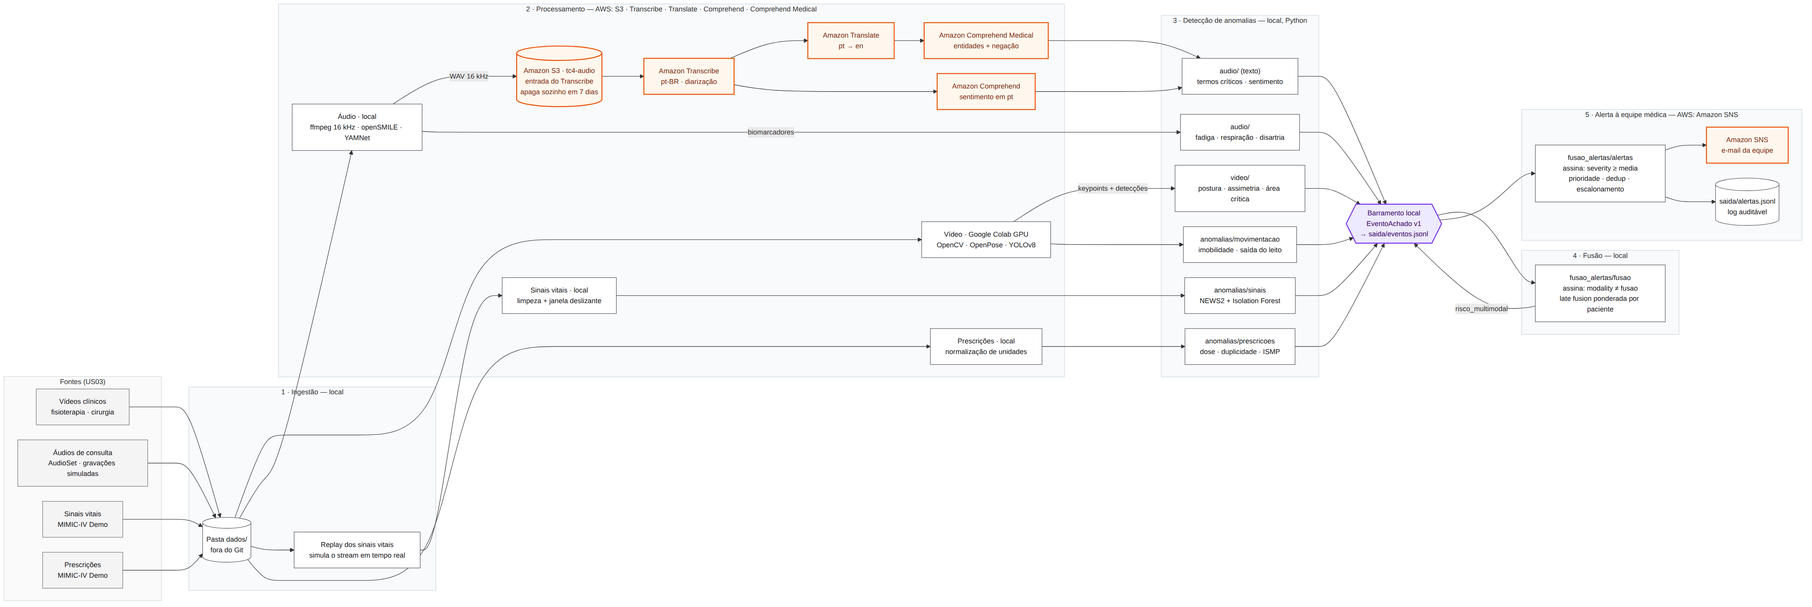
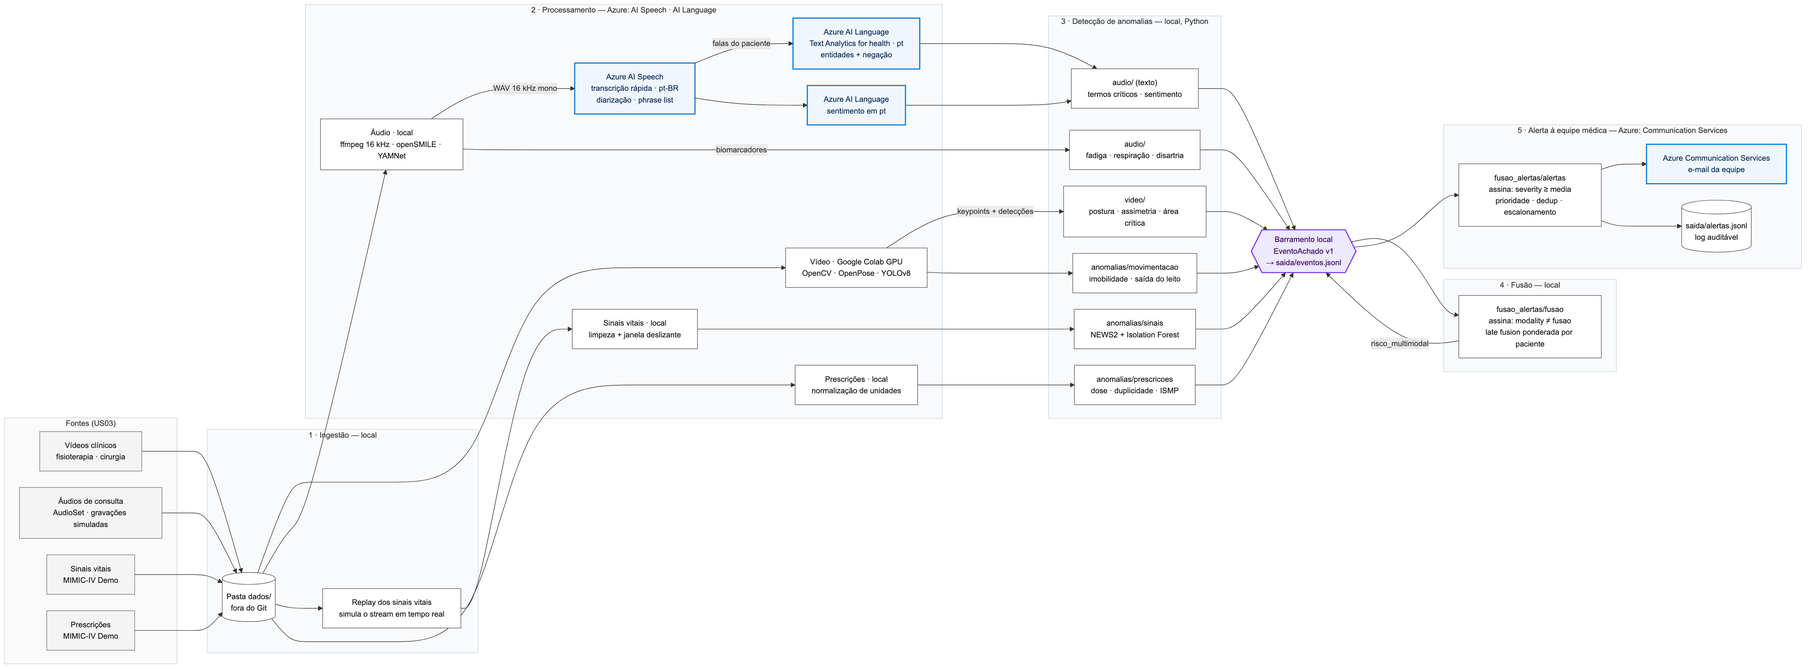
Remove minimum IAM policy JSON file as it is no longer needed for the project.

diff --git a/docs/arquitetura/README.md b/docs/arquitetura/README.md
@@ -3,10 +3,11 @@
 > **US04**: definir a arquitetura do fluxo multimodal e o contrato de eventos.
 > Base para a seção "Descrição do fluxo multimodal" do relatório técnico (US21).
 
-**Premissa:** trabalho acadêmico com orçamento próximo de zero. O pipeline roda em Python na máquina do grupo (o vídeo roda no Google Colab, que tem GPU gratuita). A AWS entra só onde o serviço gerenciado é o objetivo do desafio: transcrição, NLP e envio do alerta. Tudo é cobrado por uso, sem nenhum recurso ligado 24 horas.
+**Premissa:** trabalho acadêmico com orçamento próximo de zero. O pipeline roda em Python na máquina do grupo (o vídeo roda no Google Colab, que tem GPU gratuita). A **Microsoft Azure** entra só onde o serviço gerenciado é o objetivo do desafio: transcrição, NLP clínico, sentimento e envio do alerta. Tudo é cobrado por uso, sem nenhum recurso ligado 24 horas.
 
-- **Região:** `us-east-1`, onde todos os serviços usados estão disponíveis.
-- **Serviços AWS:** Amazon S3, Amazon Transcribe, Amazon Translate, Amazon Comprehend, Amazon Comprehend Medical e Amazon SNS.
+- **Região:** `brazilsouth` (Sul do Brasil). Todos os serviços usados estão disponíveis nela, incluindo a transcrição rápida, e áudio e texto clínico são processados no Brasil (ver [decisão 7](#decisões-de-arquitetura)).
+- **Serviços Azure:** Azure AI Speech, Azure AI Language (Text Analytics for health e análise de sentimento) e Azure Communication Services Email.
+- **Grupo de recursos:** `rg-tc4-multimodal`. Todos os recursos ficam nele, o que facilita o orçamento, as permissões e a limpeza (`az group delete` no fim do projeto).
 
 ![Fluxo multimodal](fluxo_multimodal.png)
 
@@ -23,64 +24,97 @@ python scripts/rodar_demo.py
 O fluxo tem cinco passos:
 
 1. **Ingestão.** O pipeline lê os arquivos de `dados/`, e o replay dos sinais vitais simula um stream em tempo real.
-2. **Processamento.** Cada modalidade é processada no seu módulo. O áudio passa pelos serviços de IA da AWS.
+2. **Processamento.** Cada modalidade é processada no seu módulo. O áudio passa pelos serviços de IA da Azure.
 3. **Detecção de anomalias.** Cada detector publica achados no formato [`EventoAchado`](contrato_eventos.md) em um barramento local.
 4. **Fusão.** A fusão assina o barramento, calcula o risco por paciente e publica `risco_multimodal`.
-5. **Alerta.** O motor de alertas assina o barramento e envia e-mail pelo Amazon SNS.
+5. **Alerta.** O motor de alertas assina o barramento e envia e-mail pelo Azure Communication Services.
 
 Os módulos não se chamam entre si, só publicam no contrato. Assim, cada integrante desenvolve e testa sua US isoladamente, e a fusão funciona com qualquer combinação de modalidades presentes, inclusive quando falta alguma (US18).
 
-## Etapas e serviços AWS
+## Etapas e serviços Azure
 
-Quando a etapa diz "nenhum", o código roda localmente, sem serviço AWS.
+Quando a etapa diz "nenhum", o código roda localmente, sem serviço de nuvem.
 
-| Etapa | Onde roda | Serviço AWS | O que faz | US |
+| Etapa | Onde roda | Serviço Azure | O que faz | US |
 |---|---|---|---|---|
 | **1 · Ingestão** | Local | nenhum | Arquivos em `dados/` (fora do Git, baixados por script). Replay do MIMIC-IV Demo que entrega as medições em ordem, em velocidade configurável | US03, US20 |
 | **2 · Vídeo** | Google Colab (GPU) | nenhum | OpenCV, fps configurável, anonimização de rosto, OpenPose (keypoints) e YOLOv8 (objetos/ROIs). A saída é JSON em `saida/video/` | US05–US07 |
-| **2 · Áudio** | Local | — | ffmpeg (WAV 16 kHz mono), biomarcadores com openSMILE/parselmouth, eventos respiratórios com YAMNet | US10, US12 |
-| **2 · Transcrição** | AWS | **Amazon S3** `tc4-audio` + **Amazon Transcribe** | O áudio é enviado ao S3 (o Transcribe lê de lá) e transcrito em pt-BR com diarização. Uma regra de ciclo de vida apaga os arquivos após 7 dias | US11 |
-| **2 · NLP clínico** | AWS | **Amazon Translate** → **Amazon Comprehend Medical** | O Comprehend Medical só aceita inglês, então as falas do paciente são traduzidas pt→en. Ele extrai sintomas, medicamentos e dosagens e marca negação ("nega dor no peito") | US13 |
-| **2 · Sentimento** | AWS | **Amazon Comprehend** | Sentimento por sentença, direto em português | US13 |
+| **2 · Áudio** | Local | nenhum | ffmpeg (WAV 16 kHz mono), biomarcadores com openSMILE/parselmouth, eventos respiratórios com YAMNet | US10, US12 |
+| **2 · Transcrição** | Azure | **Azure AI Speech** (transcrição rápida) | O WAV vai direto na requisição, sem passar por armazenamento. Transcrição em pt-BR com diarização (até 2 falantes) e *phrase list* com termos clínicos do roteiro | US11 |
+| **2 · NLP clínico** | Azure | **Azure AI Language**: Text Analytics for health | Roda **direto em português** (`language: "pt"`), sem tradução. Extrai sintomas, medicamentos, dosagens e relações, e marca negação pela *assertion detection* (`certainty: negative` em "nega dor no peito") | US13 |
+| **2 · Sentimento** | Azure | **Azure AI Language**: análise de sentimento | Sentimento por documento e por sentença, em português, na mesma chamada | US13 |
 | **2 · Sinais vitais** | Local | nenhum | Limpeza de artefatos (SpO2 = 0, FC > 300) e janela deslizante por paciente | US15 |
 | **2 · Prescrições** | Local | nenhum | Ordenação por paciente e normalização de unidades | US16 |
 | **3 · Detecção** | Local | nenhum | Regras e ML em Python: NEWS2 + Isolation Forest, regras ISMP/dose, postura/área crítica, imobilidade, classes vocais, termos críticos | US08, US13–US17 |
 | **Barramento** | Local | nenhum | `BarramentoLocal`: valida cada evento, grava em `saida/eventos.jsonl` e entrega em ordem a quem assinou | US04 |
 | **4 · Fusão** | Local | nenhum | *Late fusion* ponderada por paciente e janela; assina `modality ≠ fusao` | US18 |
-| **5 · Alerta** | Local + AWS | **Amazon SNS** | Motor de alertas (prioridade IEC 60601-1-8, dedup, escalonamento) assina `severity ≥ media`, publica no tópico `alertas-equipe` (e-mail) e grava o log em `saida/alertas.jsonl` | US19 |
+| **5 · Alerta** | Local + Azure | **Azure Communication Services Email** | Motor de alertas (prioridade IEC 60601-1-8, dedup, escalonamento) assina `severity ≥ media`, envia e-mail à lista `ALERTA_DESTINATARIOS` e grava o log em `saida/alertas.jsonl` | US19 |
+
+### Recursos a criar
+
+| Recurso | Nome sugerido | Observação |
+|---|---|---|
+| Grupo de recursos | `rg-tc4-multimodal` | Região `brazilsouth` |
+| Azure AI Speech | `spc-tc4-multimodal` | Criar com subdomínio personalizado, exigido para autenticar com Microsoft Entra ID |
+| Azure AI Language | `lang-tc4-multimodal` | Idem. Text Analytics for health e sentimento usam o mesmo recurso |
+| Email Communication Service | `ecs-tc4-multimodal` | Com o domínio gerenciado pela Azure (`*.azurecomm.net`), que dispensa DNS próprio |
+| Communication Services | `acs-tc4-multimodal` | Localização de dados no Brasil, conectado ao domínio acima |
+
+Não há conta de armazenamento no fluxo principal: a transcrição rápida recebe o áudio na própria requisição. Ela aceita arquivos de até 5 horas e 500 MB, bem acima das consultas de 5 minutos do projeto.
 
 ### Transversais
 
 | Tema | Como |
 |---|---|
-| Credenciais AWS | Um usuário IAM do projeto com a política mínima de [`iam-politica-minima.json`](iam-politica-minima.json). As chaves ficam no perfil do AWS CLI ou no `.env`, nunca no Git |
-| Controle de custo | **AWS Budgets** com alerta em US$ 10 (o próprio serviço de orçamento é gratuito). Cache local das respostas da AWS, descrito abaixo |
+| Credenciais Azure | **Sem chaves de API.** Cada integrante faz `az login` e o código usa `DefaultAzureCredential` (pacote `azure-identity`). As permissões vêm da função personalizada [`azure-funcao-minima.json`](azure-funcao-minima.json), atribuída no escopo do grupo de recursos. Para CI, um *service principal* com a mesma função |
+| Controle de custo | **Orçamento do Azure Cost Management** com alertas em 50%, 80% e 100% de US$ 10 (o orçamento é gratuito, mas só avisa, não bloqueia). Cache local das respostas, descrito abaixo |
 | Pseudonimização | `PSEUDONYM_KEY` no `.env` (HMAC-SHA256, ver [contrato](contrato_eventos.md)) |
 | Logs e latência | Log estruturado por etapa. A latência de cada alerta é o instante do envio menos o `ingested_at` do evento de origem (US19) |
 
+Configuração esperada no `.env` (só endpoints e nomes, nenhum segredo):
+
+```bash
+AZURE_REGION=brazilsouth
+AZURE_SPEECH_ENDPOINT=https://spc-tc4-multimodal.cognitiveservices.azure.com/
+AZURE_LANGUAGE_ENDPOINT=https://lang-tc4-multimodal.cognitiveservices.azure.com/
+AZURE_COMMUNICATION_ENDPOINT=https://acs-tc4-multimodal.brazil.communication.azure.com/
+ALERTA_REMETENTE=DoNotReply@<subdominio>.azurecomm.net
+ALERTA_DESTINATARIOS=equipe@exemplo.com
+```
+
+Os endpoints exatos aparecem na página de cada recurso no portal.
+
+Para criar a função e dar acesso a um integrante (troque `ID-DA-ASSINATURA` no JSON antes):
+
+```bash
+az role definition create --role-definition docs/arquitetura/azure-funcao-minima.json
+az role assignment create \
+  --assignee <email-do-integrante> \
+  --role "TC4 Pipeline Multimodal (mínimo)" \
+  --scope /subscriptions/<id-da-assinatura>/resourceGroups/rg-tc4-multimodal
+```
+
+As *data actions* são as das funções nativas Cognitive Services Speech User e Cognitive Services Language Reader, reduzidas ao que o pipeline chama. As *actions* de Communication Services são as que a Microsoft documenta como mínimo para envio de e-mail com identidade do Entra ID. Se preferirem funções nativas, essas duas mais Communication and Email Service Owner no recurso de e-mail funcionam, com um pouco mais de permissão.
+
 ## Custo estimado
 
-**Cenário:** 10 consultas de 5 minutos. Só as falas do paciente vão para o NLP clínico, cerca de 3.000 caracteres por consulta. Os preços são os de `us-east-1` sem nível gratuito:
+**Cenário:** 10 consultas de 5 minutos. Só as falas do paciente vão para o NLP, cerca de 3.000 caracteres por consulta. Os preços são os de lista em dólar, sem nível gratuito; `brazilsouth` pode custar um pouco mais que as regiões dos EUA, então confiram na [calculadora de preços](https://azure.microsoft.com/pricing/calculator/).
 
 | Serviço | Uso | Preço | Custo |
 |---|---|---|---|
-| Transcribe | 50 min | US$ 0,006/min | US$ 0,30 |
-| Translate | 30 mil caracteres | US$ 15 por milhão | US$ 0,45 |
-| Comprehend Medical | 300 unidades de 100 caracteres | US$ 0,01/unidade | US$ 3,00 |
-| Comprehend (sentimento) | cerca de 600 sentenças, mínimo de 3 unidades cada | US$ 0,0001/unidade | US$ 0,18 |
-| S3 + SNS | poucos MB e dezenas de e-mails | — | centavos |
-| **Total por rodada completa** | | | **≈ US$ 4** |
+| Speech (transcrição rápida) | 50 min | US$ 0,36/hora | US$ 0,30 |
+| Text Analytics for health | 30 a 60 registros de até 1.000 caracteres | 5 mil registros/mês incluídos; depois US$ 25 por mil | US$ 0,00 (no pior caso, US$ 1,50) |
+| Language (sentimento) | 30 a 60 registros | 5 mil registros/mês gratuitos | US$ 0,00 |
+| Communication Services Email | dezenas de e-mails | US$ 0,00025/e-mail + US$ 0,00012/MB | centavos |
+| **Total por rodada completa** | | | **≈ US$ 0,30 a 2** |
 
-O nível gratuito cobre esse volume para quem tem direito:
+Para reduzir registros cobrados, agrupem as falas do paciente de cada consulta em poucos documentos (o serviço cobra por bloco de 1.000 caracteres de cada documento, então 600 sentenças enviadas separadamente viram 600 registros). O resultado traz o *offset* de cada entidade, o que permite voltar ao trecho e ao instante do áudio.
 
-- Transcribe: 60 min/mês por 12 meses.
-- Translate: 2 milhões de caracteres/mês por 12 meses.
-- Comprehend Medical: 85 mil unidades no primeiro mês.
-- Comprehend: 50 mil unidades/mês por API.
+O nível gratuito (F0) cobre esse volume: 5 horas de áudio/mês no Speech e 5 mil registros/mês no Language. Cada assinatura pode ter um recurso F0 de cada tipo. Confiram no portal se o F0 atende a transcrição rápida e a diarização no recurso criado; se não atender, usem o S0, que custa os centavos da tabela.
 
-Contas novas recebem créditos em vez desse modelo, e as regras mudam com o tempo. Confiram o painel de faturamento da conta usada.
+**Azure for Students:** integrantes com e-mail institucional podem ativar US$ 100 em créditos, sem cartão de crédito. Quando os créditos acabam, os recursos param em vez de gerar cobrança, o que é uma proteção extra além do orçamento.
 
-**Cache é obrigatório.** Toda chamada à AWS passa por um cliente que guarda a resposta em `saida/cache_aws/`, com o hash do arquivo ou do texto como chave. Rodar a demo de novo, gravar o vídeo ou ajustar limiares não repete chamadas já feitas. Assim, os ≈ US$ 4 são pagos uma vez, não a cada execução.
+**Cache é obrigatório.** Toda chamada à Azure passa por um cliente que guarda a resposta em `saida/cache_azure/`, com o hash do arquivo ou do texto como chave. Rodar a demo de novo, gravar o vídeo ou ajustar limiares não repete chamadas já feitas. Assim, a rodada é paga uma vez, não a cada execução.
 
 ## Contrato de eventos
 
@@ -91,32 +125,59 @@ O contrato único de achado está descrito em [`contrato_eventos.md`](contrato_e
 - Exemplos por modalidade em `contratos/exemplos/`.
 - Testes em `tests/contratos/`.
 
+O contrato não depende de provedor de nuvem: nenhum campo muda com a migração.
+
 ## Decisões de arquitetura
 
 1. **Pipeline local, IA gerenciada na nuvem.** Filas, orquestradores, funções serverless e GPU na nuvem teriam custo e configuração sem ganho para a avaliação. A nuvem fica onde o desafio pede serviço gerenciado: transcrição, NLP e alerta.
 2. **Barramento local no lugar de filas.** O `BarramentoLocal` dá o mesmo desacoplamento: os módulos só publicam no contrato e a fusão e os alertas assinam com filtros. Também grava tudo em JSONL, que serve de trilha de auditoria, fonte das métricas do relatório e replay da demo.
 3. **Vídeo no Colab.** OpenPose e YOLOv8 precisam de GPU para rodar em tempo razoável. O Colab gratuito resolve, e o notebook grava os keypoints e as detecções em JSON para os detectores locais.
-4. **Tradução antes do NLP clínico.** O Comprehend Medical e o Transcribe Medical só atendem inglês, e o Transcribe padrão não oferece modelo de linguagem customizado em pt-BR. Por isso a transcrição usa o Transcribe padrão (vocabulário personalizado se o WER passar de 20%), e o NLP clínico traduz pt→en. O texto original e o traduzido ficam na evidência para revisão.
-5. **Evidência por referência.** Frames, trechos de áudio e transcrições ficam em `saida/`, e o evento guarda o caminho. O evento fica leve (no máximo 256 KB) e o JSONL continua legível.
-6. **Pseudonimização na borda.** `patient_id` é um HMAC-SHA256: determinístico, para a fusão cruzar modalidades, e irreversível sem a chave (LGPD, art. 13 §4º).
+4. **NLP clínico direto em português.** O Text Analytics for health aceita português, então a etapa de tradução pt→en deixou de existir. Isso remove um serviço, uma fonte de erro (tradução trocando termo clínico) e parte do custo. Se a avaliação da US13 mostrar recall baixo em português, a alternativa é traduzir com o Azure AI Translator e reprocessar em inglês, comparando os dois caminhos no mesmo texto anotado.
+5. **Transcrição rápida, sem armazenamento intermediário.** A API de transcrição rápida é síncrona e recebe o áudio na requisição, com diarização. Não há bucket, regra de ciclo de vida nem *polling* de job. Para melhorar termos clínicos, o caminho é: *phrase list* primeiro (sem custo nem treino); se o WER passar de 20%, um modelo Custom Speech em pt-BR. O treino do Custom Speech não roda em `brazilsouth`: treina-se em `eastus` e copia-se o modelo para a região do projeto.
+6. **Autenticação sem segredos.** `az login` + `DefaultAzureCredential` + uma função RBAC mínima no escopo do grupo de recursos. Não existe chave de acesso para vazar no `.env` ou no Git, e revogar o acesso de alguém é remover uma atribuição de função.
+7. **Dados processados no Brasil.** Speech e Language processam e armazenam os dados na região do recurso. Com `brazilsouth`, áudio e texto clínico (dados sensíveis de saúde, LGPD art. 5º, II) não saem do país, o que simplifica a análise de transferência internacional (LGPD, art. 33).
+8. **Evidência por referência.** Frames, trechos de áudio e transcrições ficam em `saida/`, e o evento guarda o caminho. O evento fica leve (no máximo 256 KB) e o JSONL continua legível.
+9. **Pseudonimização na borda.** `patient_id` é um HMAC-SHA256: determinístico, para a fusão cruzar modalidades, e irreversível sem a chave (LGPD, art. 13 §4º).
+
+## Migração AWS → Azure
+
+O projeto começou na AWS. A tabela registra a troca de cada serviço e o que melhorou:
+
+| Antes (AWS) | Agora (Azure) | Ganho |
+|---|---|---|
+| Amazon S3 (`tc4-audio`) + ciclo de vida de 7 dias | nenhum: áudio vai na requisição | Um recurso a menos, nada de áudio guardado na nuvem |
+| Amazon Transcribe (job assíncrono) | Azure AI Speech, transcrição rápida | Resposta síncrona; Custom Speech em pt-BR disponível se precisar |
+| Amazon Translate → Amazon Comprehend Medical | Text Analytics for health em português | Sem tradução; negação, condicionalidade e temporalidade por entidade |
+| Amazon Comprehend (sentimento) | Azure AI Language (sentimento) | Mesmo recurso do NLP clínico |
+| Amazon SNS (e-mail) | Azure Communication Services Email | E-mail com remetente e corpo formatado, em vez de assinatura de tópico |
+| Usuário IAM + chaves de acesso | `DefaultAzureCredential` + função RBAC | Nenhum segredo de longa duração |
+| AWS Budgets | Azure Cost Management (orçamento) | Equivalente |
+| `us-east-1` | `brazilsouth` | Dados processados no Brasil |
+
+Fora desta pasta, ainda referenciam a AWS e precisam migrar: `app/aws_clients.py`, `app/config.py` e `app/errors.py` (trocar `boto3` por `azure-ai-speech`/`azure-ai-textanalytics`/`azure-communication-email` + `azure-identity`), `terraform/` (provider `azurerm`), `tests/test_smoke.py` e `tests/conftest.py`, o `README.md` da raiz, a mensagem de erro em `contratos/pseudonimizacao.py` (cita o Secrets Manager) e o exemplo `contratos/exemplos/texto_termo_critico.json` (cita `amazon-transcribe` e `amazon-translate`).
 
 ## Evolução para produção (trabalhos futuros)
 
 A arquitetura foi pensada para migrar sem reescrever os módulos, porque eles só dependem do contrato e de um `Emissor`:
 
-| Hoje | Em produção |
-|---|---|
-| Replay local | Amazon Kinesis Data Streams |
-| `BarramentoLocal` | Amazon EventBridge + SQS FIFO por paciente |
-| Detectores e fusão em Python | AWS Lambda |
-| Vídeo no Colab | AWS Batch com GPU |
-| Log em JSONL | DynamoDB |
+| Hoje | Em produção (Azure) | Por quê |
+|---|---|---|
+| Replay local | Azure Event Hubs (ou IoT Hub, para monitores à beira do leito) | Ingestão de telemetria contínua com retenção e replay |
+| `BarramentoLocal` | Azure Service Bus: um tópico, uma assinatura por consumidor com filtro SQL, sessões com `SessionId = patient_id` | Os filtros substituem `filtro()`, as sessões garantem ordem por paciente e a detecção de duplicatas usa `MessageId = event_id` |
+| Detectores e fusão em Python | Azure Functions (gatilho do Service Bus) ou Azure Container Apps | Escala por evento, sem servidor ligado |
+| Vídeo no Colab | Azure Container Apps com GPU sem servidor, ou Azure Machine Learning | GPU só durante o processamento |
+| Log em JSONL | Azure Cosmos DB, com `patient_id` como chave de partição | Consulta por paciente e janela |
+| `PSEUDONYM_KEY` no `.env` | Azure Key Vault, lida por identidade gerenciada | Rotação e auditoria de acesso à chave |
+| Log estruturado | Azure Monitor + Application Insights (OpenTelemetry) | Rastreio de ponta a ponta e medição da latência dos alertas |
+| CSV do MIMIC-IV | Azure Health Data Services (FHIR) | Integração com prontuário em formato padrão |
 
-O limite de 256 KB do evento já é compatível com esses serviços. Vale citar esta seção no relatório técnico.
+O limite de 256 KB do evento é exatamente o tamanho máximo de mensagem do Service Bus Standard, e cabe no Event Hubs e no Cosmos DB. Vale citar esta seção no relatório técnico.
 
 ## Limitações conhecidas
 
-- A tradução automática pode alterar termos clínicos. A US13 mede recall e precisão no texto em português anotado, para capturar esse erro de ponta a ponta.
+- O Text Analytics for health tem mais maturidade em inglês do que em português. A US13 mede recall e precisão no texto em português anotado para quantificar isso, e a decisão 4 descreve o plano B.
+- A diarização da transcrição rápida exige áudio mono. O pré-processamento já gera WAV 16 kHz mono.
 - O "tempo real" é simulado pelo replay dos sinais vitais. Áudio e vídeo são processados por arquivo, depois da gravação.
 - O MIMIC-IV desloca as datas para o futuro. O replay reescreve os timestamps para o instante da execução, e o valor original fica em `evidence.features`.
+- Preços, níveis gratuitos e disponibilidade por região mudam. Os valores acima foram conferidos em outubro de 2026.
 - Não é dispositivo médico validado clinicamente. Os achados são indicativos para avaliação da equipe.

diff --git a/docs/arquitetura/contrato_eventos.md b/docs/arquitetura/contrato_eventos.md
@@ -15,7 +15,7 @@ Formato único de todo achado emitido pelos módulos de vídeo, áudio, texto, s
 | Campo               | Tipo               | Obrigatório                      | Regra                                                                                                                          |
 | ------------------- | ------------------ | -------------------------------- | ------------------------------------------------------------------------------------------------------------------------------ |
 | `schema_version`    | `"1.0.0"`          | sim (preenchido automaticamente) | Versão do contrato                                                                                                             |
-| `event_id`          | UUID               | sim (`criar()` gera)             | Chave de idempotência (deduplicação no SQS e nos alertas)                                                                      |
+| `event_id`          | UUID               | sim (`criar()` gera)             | Chave de idempotência (deduplicação nos alertas e, em produção, `MessageId` no Service Bus)                                     |
 | `patient_id`        | string             | sim                              | Pseudônimo `pt_<24 hex>` gerado por `pseudonimizar_paciente()`. IDs crus são recusados                                         |
 | `modality`          | enum               | sim                              | `video`, `audio`, `texto`, `sinais_vitais`, `prescricoes`, `movimentacao`, `fusao`                                             |
 | `event_type`        | string             | sim                              | Precisa estar no catálogo **da modalidade** (tabela abaixo)                                                                    |
@@ -40,8 +40,8 @@ Campos fora dessa lista são recusados (`extra = forbid`). O objetivo é que nen
 | `summary`    | Obrigatório. Frase legível em pt-BR (3 a 500 caracteres). É o texto que chega à equipe médica                                                                                                                                                                                                     |
 | `features`   | Valores observados que levaram à decisão, ex. `{"spo2_pct": 92, "news2_total": 6}`. Aceita número, texto (até 200 caracteres), booleano ou nulo                                                                                                                                                   |
 | `thresholds` | Limiares aplicados, ex. `{"news2_emergencia_total": 7}`                                                                                                                                                                                                                                           |
-| `models`     | Modelos e serviços de base, ex. `{"openpose": "BODY_25", "amazon-transcribe": "pt-BR"}`                                                                                                                                                                                                           |
-| `artifacts`  | Até 20 referências com `kind`, `media_type` e `start_ms`/`end_ms` relativos à mídia. `uri` é um caminho relativo à raiz do repositório (`saida/video/fisio-003/frame.jpg`) ou uma URI `s3://`/`https://`. Caminhos absolutos são recusados, porque só funcionam na máquina de quem gerou o evento |
+| `models`     | Modelos e serviços de base, ex. `{"openpose": "BODY_25", "azure-speech": "pt-BR"}`                                                                                                                                                                                                                   |
+| `artifacts`  | Até 20 referências com `kind`, `media_type` e `start_ms`/`end_ms` relativos à mídia. `uri` é um caminho relativo à raiz do repositório (`saida/video/fisio-003/frame.jpg`) ou uma URI `https://` (ex. Azure Blob Storage; `s3://` ainda é aceito por compatibilidade). Caminhos absolutos são recusados, porque só funcionam na máquina de quem gerou o evento |
 
 O contrato bloqueia padrões de **CPF e e-mail** em `summary` e nas `features` de texto. É um guarda-corpo, não substitui revisão.
 
@@ -51,7 +51,7 @@ O contrato bloqueia padrões de **CPF e e-mail** em `summary` e nas `features` d
 - `sem_achados` exige `severity = info`.
 - `modality = fusao` exige ao menos um `related_event_ids`.
 - `timestamp` precisa estar dentro de `window`, quando houver janela.
-- O evento serializado tem no máximo **256 KB**. Evidências maiores ficam em arquivo e entram como caminho. O mesmo limite vale para filas e barramentos gerenciados, então o contrato não muda se o projeto migrar para a nuvem. O JSON Schema não consegue expressar essa regra; só o pydantic a verifica.
+- O evento serializado tem no máximo **256 KB**. Evidências maiores ficam em arquivo e entram como caminho. É o mesmo limite de mensagem do Azure Service Bus Standard, então o contrato não muda se o barramento for para a nuvem. O JSON Schema não consegue expressar essa regra; só o pydantic a verifica.
 
 ## Catálogo de `event_type`
 
